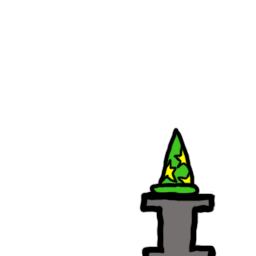
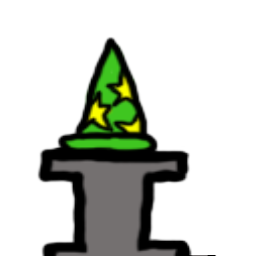
Added transition from start to game. Added alpaca art and movement to game state.

diff --git a/AlpacasWithBonnets/AlpacasWithBonnets/Game1.cs b/AlpacasWithBonnets/AlpacasWithBonnets/Game1.cs
@@ -19,37 +19,48 @@ namespace AlpacasWithBonnets
     /// 
 
     //Zoe McHenry - implementing level & testing
-
-    // Making the different Game States that are needed
     public enum TheGameStates
     {
-        Start,
-        Game,
-        End
+        Start, // Show title and instructions
+        Game, //  levels of gameplay
+        End  // Show final score 
     }
+
+    public enum CharacterState
+    {
+        Walking, 
+        Jumping
+    }
+
 
     public class Game1 : Microsoft.Xna.Framework.Game
     {
+        GraphicsDeviceManager graphics;
+        SpriteBatch spriteBatch; 
+
         //Zoe McHenry
-        //
         Character character;
         CharacterIO characterIO;
-        //
-
-        GraphicsDeviceManager graphics;
-        SpriteBatch spriteBatch;
         Map map = new Map(16, 10); //For testing
 
-        // TheGameStates variable
+        // Current game state variable based on TheGameStates
         TheGameStates currentGameState;
+        CharacterState currentCharState;
+
         // GameState object
         GameStates myGameState = new GameStates();
+
         // Sprite Font
         SpriteFont theFont;
+
         // Keyboard States
         KeyboardState keyState;
-        KeyboardState kbState;
         KeyboardState previouskbState;
+
+        // Character walk textures 
+        Texture2D walk1;
+        Texture2D walk2;
+        Texture2D walk3;
 
         public Game1()
         {
@@ -68,6 +79,7 @@ namespace AlpacasWithBonnets
         {
             // TODO: Add your initialization logic here
             currentGameState = TheGameStates.Start;
+            currentCharState = CharacterState.Walking;
 
             base.Initialize();
         }
@@ -84,13 +96,18 @@ namespace AlpacasWithBonnets
 
             // Identifying the Font
             theFont = this.Content.Load<SpriteFont>("AvoiderFont");
-            // TODO: use this.Content to load your game content here
 
             //Zoe McHenry
             //
             characterIO = new CharacterIO();
             //character = characterIO.LoadCharacter("testFile.alpaca");
-            //
+            character = new Character(0, 250, 100, 100, 100, 50);
+
+            // Load character walk cycle images
+            walk1 = this.Content.Load<Texture2D>("walk1");
+            walk2 = this.Content.Load<Texture2D>("walk2");
+            walk3 = this.Content.Load<Texture2D>("walk3");
+     
         }
 
         /// <summary>
@@ -113,31 +130,31 @@ namespace AlpacasWithBonnets
             if (GamePad.GetState(PlayerIndex.One).Buttons.Back == ButtonState.Pressed)
                 this.Exit();
 
-            // Calls the GameStates MenuCheck method
-            //currentGameState = myGameState.MenuCheck(currentGameState);
+            previouskbState = keyState;
+            keyState = Keyboard.GetState();
 
-            switch (currentGameState)
+            if (currentGameState == TheGameStates.Start && SingleKeyPress(Keys.Enter))
             {
-                case TheGameStates.Start:
-                    if (keyState.IsKeyDown(Keys.Enter))
-                    {
-                        currentGameState = TheGameStates.Game;
-                    }
-                    break;
-                case TheGameStates.Game:
-                    previouskbState = kbState;
-                    kbState = Keyboard.GetState();
-
-                    break;
-                case TheGameStates.End:
-                    if (keyState.IsKeyDown(Keys.Enter))
-                    {
-                        currentGameState = TheGameStates.Start;
-                    }
-                    break;
+                currentGameState = TheGameStates.Game;
             }
 
+            if (currentGameState == TheGameStates.Game)
+            {
+                myGameState.HandleInput(gameTime, keyState, character);
+            }
+          
+
             base.Update(gameTime);
+        }
+
+        public Boolean SingleKeyPress(Keys keyPress)
+        {
+            if (previouskbState != null && previouskbState.IsKeyDown(keyPress))
+            {
+                return false;
+            }
+
+            return keyState.IsKeyDown(keyPress);
         }
 
         /// <summary>
@@ -153,8 +170,14 @@ namespace AlpacasWithBonnets
             // Calling the GameStates DrawCheck method
             myGameState.DrawCheck(currentGameState, theFont, spriteBatch);
 
+            // Alpaca drawing
+            if (currentGameState == TheGameStates.Game)
+            {
+                character.Draw(spriteBatch, walk1);
+            }
+
             spriteBatch.End();
-            // TODO: Add your drawing code here
+           
 
             base.Draw(gameTime);
         }

diff --git a/AlpacasWithBonnets/AlpacasWithBonnets/GameStates.cs b/AlpacasWithBonnets/AlpacasWithBonnets/GameStates.cs
@@ -12,36 +12,14 @@ using Microsoft.Xna.Framework.Media;
 
 namespace AlpacasWithBonnets
 {
+
+    // Making the different Game States that are needed
+  
+
     class GameStates
     {
         // Sara Nuffer, James Borger
         // This class will have all of the information that the Game1 class will need to be able to work with the game states
-
-        // Makes a keyboard state which can be used to tell what keys are being pressed
-        KeyboardState Key;
-        // This method changes the menus depending on the game state
-        public TheGameStates MenuCheck(TheGameStates currentGameState) // Would have to take in a key pressed
-        {
-            TheGameStates returningGameState = TheGameStates.Start;
-            switch (currentGameState)
-            {
-                case TheGameStates.Start:
-
-                    returningGameState = TheGameStates.Game;
-                    return returningGameState;
-                case TheGameStates.Game:
-
-                    returningGameState = TheGameStates.End;
-                    return returningGameState;
-                case TheGameStates.End:
-
-                    returningGameState = TheGameStates.Start;
-                    return returningGameState;
-            }
-
-            // returns Start if it does not go through the switch for whatever reason
-            return returningGameState;
-        }
 
         // This method changes what the game draws depending on the game state
         public void DrawCheck(TheGameStates aGameState, SpriteFont aSpriteFont, SpriteBatch aSpriteBatch) // Also needs the name of the spritefont
@@ -60,9 +38,7 @@ namespace AlpacasWithBonnets
                     aSpriteBatch.DrawString(aSpriteFont, instructions, new Vector2(10, 40), Color.Black);
                     
                     break;
-                case TheGameStates.Game:
 
-                    break;
                 case TheGameStates.End:
                     // Making the statements to print
                     string gameOver = "Game Over";
@@ -78,32 +54,36 @@ namespace AlpacasWithBonnets
 
         // Handles Keyboard Input from the player
         //For Movement and attacking
-        public void HandleInput()
+        public void HandleInput(GameTime gameTime, KeyboardState keyState, Character newCharacter)
         {
-            Key = Keyboard.GetState();
-            if (Key.IsKeyDown(Keys.W))
+            if (keyState.IsKeyDown(Keys.W))
             {
                 // Add Jump code here
             }
-            if (Key.IsKeyDown(Keys.A))
+            if (keyState.IsKeyDown(Keys.A))
             {
-                // Movement to the Left here
+                newCharacter.ObjectPosX -= (newCharacter.ObjectSpeed * (float)gameTime.ElapsedGameTime.TotalSeconds);
             }
-            if (Key.IsKeyDown(Keys.D))
+            if (keyState.IsKeyDown(Keys.D))
             {
-                // Movement to the Right here
+                newCharacter.ObjectPosX += (newCharacter.ObjectSpeed * (float)gameTime.ElapsedGameTime.TotalSeconds);
             }
-            if (Key.IsKeyDown(Keys.Space))
+            if (keyState.IsKeyDown(Keys.Space))
             {
                 // attack Code here
             }
-            if (Key.IsKeyDown(Keys.Escape))
+            if (keyState.IsKeyDown(Keys.Escape))
             {
                 // Pause the game
             }
-            if (Key.IsKeyDown(Keys.Enter))
-            {
+        }
 
+        protected void Jump(CharacterState currentMoveState, Character newCharacter)
+        {
+            if (currentMoveState != CharacterState.Jumping)
+            {
+                currentMoveState = CharacterState.Jumping;
+              
             }
         }
     }

diff --git a/AlpacasWithBonnets/AlpacasWithBonnets/CharacterIO.cs b/AlpacasWithBonnets/AlpacasWithBonnets/CharacterIO.cs
@@ -8,17 +8,18 @@ namespace AlpacasWithBonnets
 {
     class CharacterIO
     {
+        // Could not find the testFile.Alpaca. Need to look into 
         //Zoe McHenry
 
         //Load
         public Character LoadCharacter(string filePath)
         {
-            BinaryReader saveReader = null;
+            BinaryReader saveReader = new BinaryReader(File.OpenRead(filePath));
             int health = 1;
             int power = 0;
-            try
+            try  // Having the reader in the try was not allowing the game to work
             {
-                Stream saveFile = File.OpenRead(filePath);
+                Stream saveFile = File.OpenRead(filePath); 
                 saveReader = new BinaryReader(saveFile);
                 health = saveReader.ReadInt32();
                 power = saveReader.ReadInt32();
@@ -35,7 +36,7 @@ namespace AlpacasWithBonnets
             //TODO:
             //Width and Height values are placeholders
             //X and Y are set at 0,0 - will need to change
-            return new Character(0, 0, 25, 25, health, power);
+            return new Character(0, 0, 100, 100, health, power);
         }
     }
 }

diff --git a/AlpacasWithBonnets/AlpacasWithBonnets/Character.cs b/AlpacasWithBonnets/AlpacasWithBonnets/Character.cs
@@ -43,5 +43,10 @@ namespace AlpacasWithBonnets
             this.health = health;
             this.power = power;
         }
+
+        public override void Draw(Microsoft.Xna.Framework.Graphics.SpriteBatch objectBatch, Microsoft.Xna.Framework.Graphics.Texture2D objectPic)
+        {
+            base.Draw(objectBatch, objectPic);
+        }
     }
 }

diff --git a/AlpacasWithBonnets/AlpacasWithBonnets/MovingObject.cs b/AlpacasWithBonnets/AlpacasWithBonnets/MovingObject.cs
@@ -14,7 +14,7 @@ namespace AlpacasWithBonnets
     public class MovingObject : GameObject
     {
         // Each object will have a different speed
-       private float objectSpeed;
+        float objectSpeed = 150.0f;
 
         // Constructor 
         public MovingObject(float objectSpeed, int x, int y, int width, int height)
